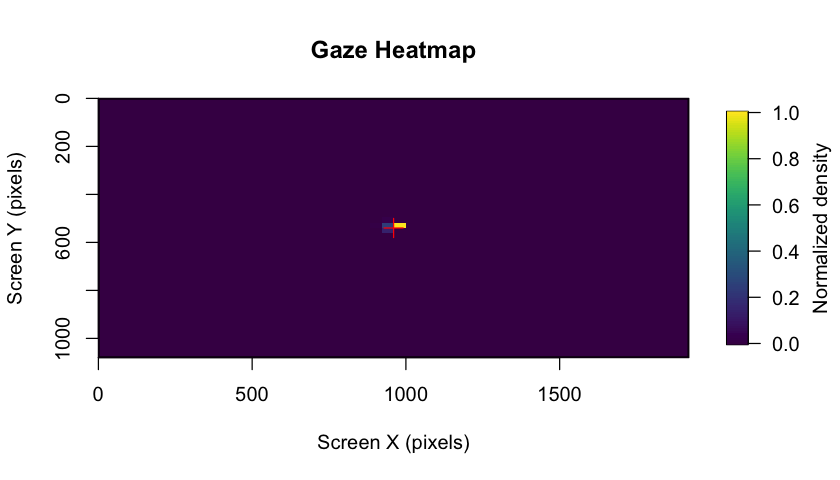
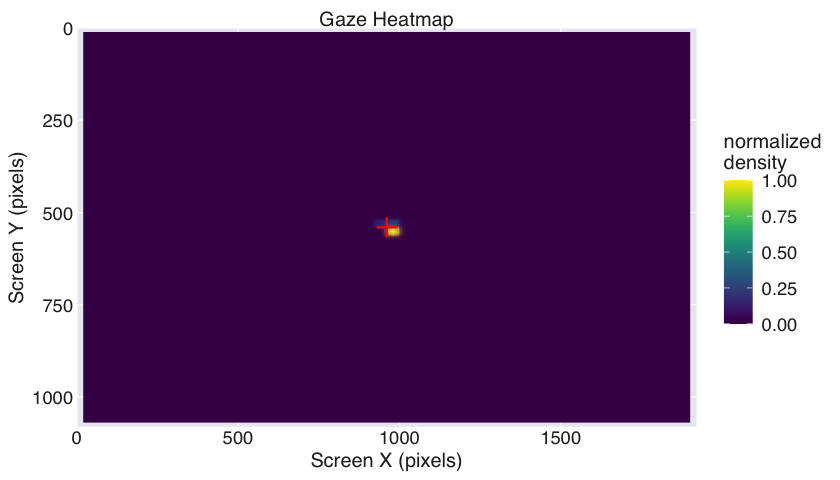
Add plotting deps, bump version, refresh README
Makefile: add 'reaborn', 'ggplot2', and 'patchwork' to getdeps. README.md: bump eyeris demo version to v3.2.0.9000, tidy wording/line breaks, update example run timestamps and remove the DuckDB/Arrow installation guidance block. Regenerated man/figures images used by the README.

Files changed: Makefile, README.md, and several man/figures PNGs.

Changed region(s): [[0.0, 0.0312, 0.9905, 1.0], [0.4333, 0.4375, 0.4952, 0.5], [0.0619, 0.0312, 0.0929, 0.0625]]

diff --git a/README.md b/README.md
@@ -71,9 +71,9 @@ manually.
 
 The current version of `eyeris` reads data recorded with **SR Research
 EyeLink** eye-trackers (via the `.asc` files produced by the EyeLink
-`edf2asc` converter). EyeLink remains the most widely used research-grade
-system in the pupillometry community, so we focused our initial efforts
-there to ensure a robust, well-tested foundation.
+`edf2asc` converter). EyeLink remains the most widely used
+research-grade system in the pupillometry community, so we focused our
+initial efforts there to ensure a robust, well-tested foundation.
 
 That said, `eyeris` is designed from the ground up to be
 **format-agnostic downstream of data loading**: every preprocessing step
@@ -88,8 +88,8 @@ representation — no changes to the preprocessing pipeline are required.
 **Roadmap & community contributions.** Broadening native support for
 other tracker formats is on our roadmap, and we actively welcome
 community contributions of new loaders. If you would like to help add
-support for your tracker of choice, please open an issue or pull
-request — see the [contribution
+support for your tracker of choice, please open an issue or pull request
+— see the [contribution
 guidelines](https://shawnschwartz.com/eyeris/CONTRIBUTING.html) to get
 started.
 
@@ -328,49 +328,8 @@ set.seed(32)
 
 library(eyeris)
 #> 
-#> eyeris v3.1.0 - Lumpy Space Princess ꒰•ᴗ•｡꒱۶
+#> eyeris v3.2.0.9000 - Lumpy Space Princess ꒰•ᴗ•｡꒱۶
 #> Welcome! Type ?`eyeris` to get started.
-#> ** DuckDB not found. Database features are disabled.
-#> 
-#> => To install DuckDB:
-#>   - macOS: install.packages('duckdb', type = 'binary')
-#>   - Linux: use system packages (e.g., `sudo apt-get install r-cran-duckdb`)
-#>            or install.packages('duckdb') if binaries are available
-#>   - Windows: install.packages('duckdb')
-#> 
-#> Once installed, restart R and reload eyeris to enable database storage
-#> (bidsify(..., db_enabled = TRUE) and eyeris_db_* functions).
-#> ** Arrow not found. Parquet operations will use DuckDB fallback (slower).
-#> 
-#> => To install Arrow:
-#> 
-#>   - macOS:
-#>     1. First install system dependencies with Homebrew:
-#>        brew update
-#>        brew install pkg-config cmake apache-arrow
-#>     2. Then install the R package:
-#>        install.packages('arrow', type = 'binary')
-#> 
-#>   - Linux (Ubuntu/Debian):
-#>     1. Install system dependencies:
-#>        sudo apt-get update
-#>        sudo apt-get install -y libcurl4-openssl-dev libssl-dev
-#>     2. Then install the R package:
-#>        install.packages('arrow')
-#> 
-#>   - Linux (Fedora/RHEL):
-#>     1. Install system dependencies:
-#>        sudo dnf install libcurl-devel openssl-devel
-#>     2. Then install the R package:
-#>        install.packages('arrow')
-#> 
-#>   - Windows:
-#>     install.packages('arrow')
-#> 
-#> For more details, see: https://arrow.apache.org/docs/r/
-#> 
-#> Once installed, restart R and reload eyeris to enable faster parquet export/import
-#> (eyeris_db_to_parquet(), read_eyeris_parquet(), and related functions).
 
 demo_data <- eyelink_asc_demo_dataset()
 
@@ -378,20 +337,20 @@ eyeris_preproc <- glassbox(
   demo_data,
   lpfilt = list(plot_freqz = FALSE)
 )
-#> ✔ [2026-06-05 00:01:48] [OKAY] Running eyeris::load_asc()
-#> ℹ [2026-06-05 00:01:48] [INFO] Processing block: block_1
-#> ✔ [2026-06-05 00:01:48] [OKAY] Running eyeris::deblink() for block_1
-#> ✔ [2026-06-05 00:01:48] [OKAY] Running eyeris::detransient() for block_1
-#> ✔ [2026-06-05 00:01:48] [OKAY] Running eyeris::interpolate() for block_1
-#> ✔ [2026-06-05 00:01:48] [OKAY] Running eyeris::lpfilt() for block_1
-#> ! [2026-06-05 00:01:48] [WARN] Skipping eyeris::downsample() for block_1
-#> ! [2026-06-05 00:01:48] [WARN] Skipping eyeris::bin() for block_1
-#> ! [2026-06-05 00:01:48] [WARN] Skipping eyeris::detrend() for block_1
-#> ✔ [2026-06-05 00:01:48] [OKAY] Running eyeris::zscore() for block_1
-#> ℹ [2026-06-05 00:01:48] [INFO] Block processing summary:
-#> ℹ [2026-06-05 00:01:48] [INFO] block_1: OK (steps: 6, latest:
+#> ✔ [2026-07-02 20:14:27] [OKAY] Running eyeris::load_asc()
+#> ℹ [2026-07-02 20:14:28] [INFO] Processing block: block_1
+#> ✔ [2026-07-02 20:14:28] [OKAY] Running eyeris::deblink() for block_1
+#> ✔ [2026-07-02 20:14:28] [OKAY] Running eyeris::detransient() for block_1
+#> ✔ [2026-07-02 20:14:28] [OKAY] Running eyeris::interpolate() for block_1
+#> ✔ [2026-07-02 20:14:28] [OKAY] Running eyeris::lpfilt() for block_1
+#> ! [2026-07-02 20:14:28] [WARN] Skipping eyeris::downsample() for block_1
+#> ! [2026-07-02 20:14:28] [WARN] Skipping eyeris::bin() for block_1
+#> ! [2026-07-02 20:14:28] [WARN] Skipping eyeris::detrend() for block_1
+#> ✔ [2026-07-02 20:14:28] [OKAY] Running eyeris::zscore() for block_1
+#> ℹ [2026-07-02 20:14:28] [INFO] Block processing summary:
+#> ℹ [2026-07-02 20:14:28] [INFO] block_1: OK (steps: 6, latest:
 #> pupil_raw_deblink_detransient_interpolate_lpfilt_z)
-#> ✔ [2026-06-05 00:01:48] [OKAY] Running eyeris::summarize_confounds()
+#> ✔ [2026-07-02 20:14:28] [OKAY] Running eyeris::summarize_confounds()
 ```
 
 ### Step-wise correction of pupillary signal
@@ -417,17 +376,17 @@ plot(eyeris_preproc,
   preview_window = c(start_time, end_time),
   add_progressive_summary = TRUE
 )
-#> ℹ [2026-06-05 00:01:48] [INFO] Plotting block 1 with sampling rate 1000 Hz from
+#> ℹ [2026-07-02 20:14:28] [INFO] Plotting block 1 with sampling rate 1000 Hz from
 #> possible blocks: 1
 ```
 
 <img src="man/figures/README-timeseries-plot-1.png" alt="" width="100%" /><img src="man/figures/README-timeseries-plot-2.png" alt="" width="100%" /><img src="man/figures/README-timeseries-plot-3.png" alt="" width="100%" /><img src="man/figures/README-timeseries-plot-4.png" alt="" width="100%" /><img src="man/figures/README-timeseries-plot-5.png" alt="" width="100%" /><img src="man/figures/README-timeseries-plot-6.png" alt="" width="100%" />
 
-    #> ℹ [2026-06-05 00:01:48] [INFO] Creating progressive summary plot for block_1
+    #> ℹ [2026-07-02 20:14:28] [INFO] Creating progressive summary plot for block_1
 
 <img src="man/figures/README-timeseries-plot-7.png" alt="" width="100%" />
 
-    #> ✔ [2026-06-05 00:01:49] [OKAY] Progressive summary plot created successfully!
+    #> ✔ [2026-07-02 20:14:29] [OKAY] Progressive summary plot created successfully!
 
     plot_gaze_heatmap(
       eyeris = eyeris_preproc,
@@ -614,8 +573,8 @@ All files follow a consistent BIDS-like naming pattern:
 - **Confounds**: `desc-confounds` (with eye suffix for binocular data)
 - **Epochs**: `desc-preproc_pupil_epoch-{event}` (with eye suffix for
   binocular data); when baseline correction is applied, the baseline is
-  folded into the same file as a `_bline-{type}-{event}` token (e.g.
-  `desc-preproc_pupil_epoch-{event}_bline-{type}-{event}`)
+  folded into the same file as a `_bline-{type}-{event}` token
+  (e.g. `desc-preproc_pupil_epoch-{event}_bline-{type}-{event}`)
 - **Events**: `events` (with eye suffix for binocular data)
 - **Blinks**: `blinks` (with eye suffix for binocular data)
 - **Reports**: HTML files with eye suffix for binocular data
